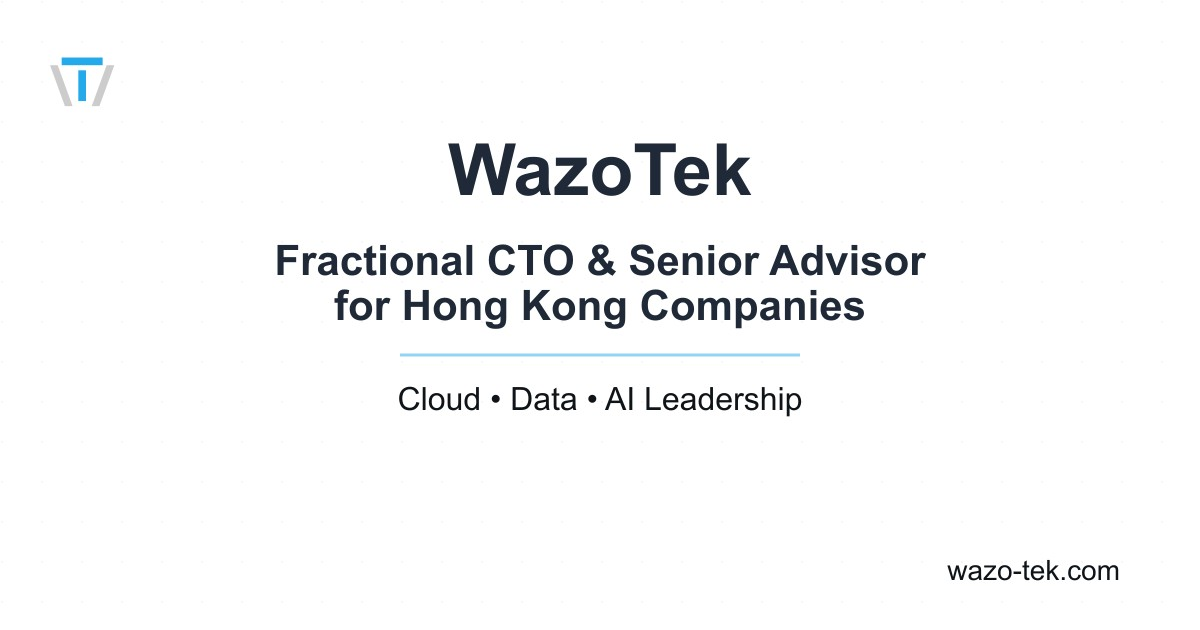
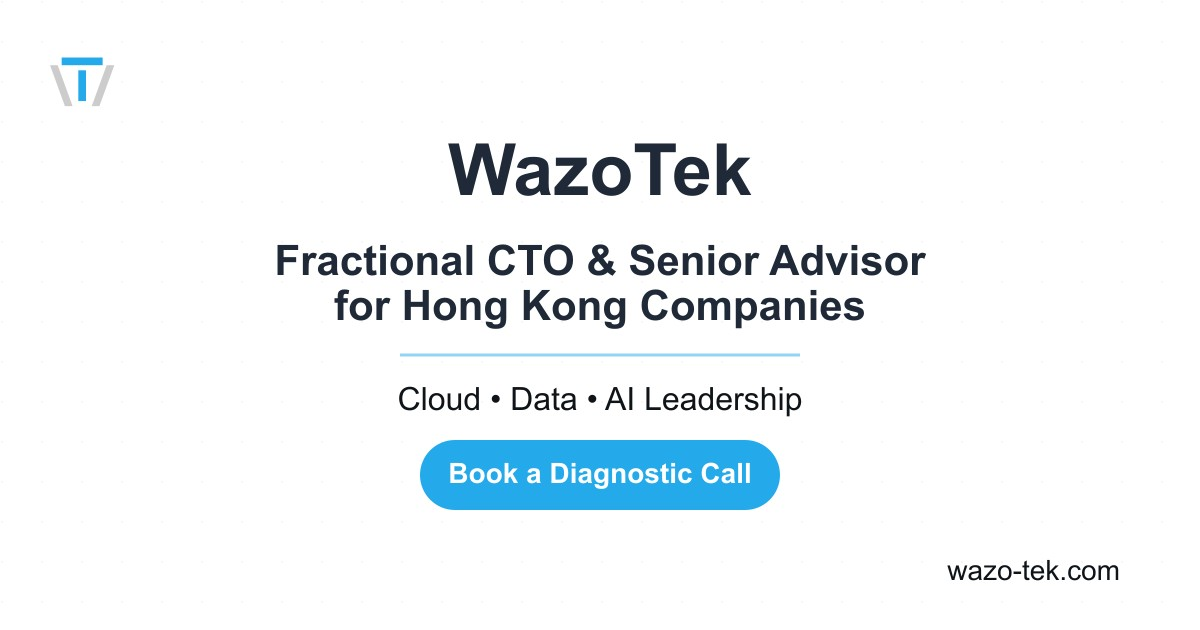
fix: update OpenGraph image and description

Changed region(s): [[0.3392, 0.6937, 0.6475, 0.8143]]

diff --git a/public/index.html b/public/index.html
@@ -45,8 +45,8 @@
   <!-- Open Graph / Social Sharing (used by LinkedIn, Slack, Discord, WhatsApp, etc.) -->
   <meta property="og:type" content="website">
   <meta property="og:url" content="https://wazo-tek.com/">
-  <meta property="og:title" content="WazoTek - Fractional CTO & Senior Advisor for Hong Kong Companies">
-  <meta property="og:description" content="Fractional CTO and senior advisor for Hong Kong companies working through cloud, data, and AI decisions. Senior leadership support without a full-time executive hire.">
+  <meta property="og:title" content="WazoTek - Fractional CTO & Advisor for Hong Kong">
+  <meta property="og:description" content="Senior technical leadership for cloud, data, and AI decisions. Fractional CTO services without the cost of a full-time executive hire.">
   <meta property="og:image" content="https://wazo-tek.com/og-image.jpg">
   <meta property="og:image:width" content="1200">
   <meta property="og:image:height" content="630">
